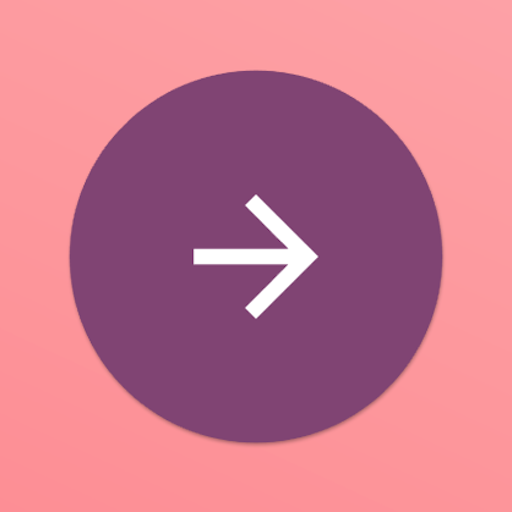
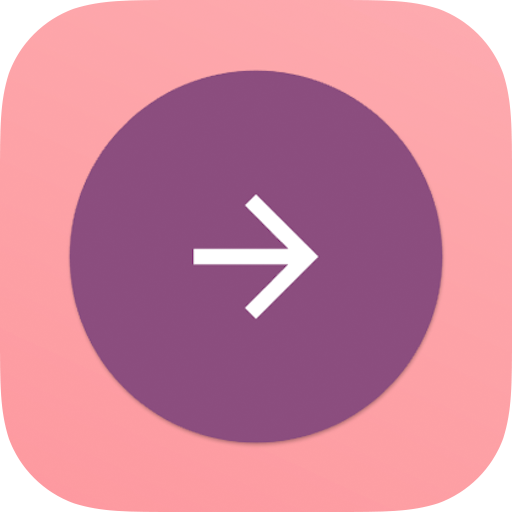
UI and content tweaks.

diff --git a/lib/widgets/resume_page/sections/projects.dart b/lib/widgets/resume_page/sections/projects.dart
@@ -15,16 +15,18 @@ class Projects extends StatelessWidget {
         crossAxisAlignment: CrossAxisAlignment.start,
         children: <Widget>[
           Headline('Projects'),
-          SizedBox(height: 8),
+          SizedBox(height: 16),
           for (ProjectDataModel project in ResumeSettings.projects)
-            Padding(
-              padding: const EdgeInsets.only(top: 16.0),
-              child: _ProjectCard(
-                title: project.projectTitle,
-                bulletPoints: project.bulletPoints,
-                assetPath: project.assetPath,
-              ),
-            )
+            Column(
+              children: <Widget>[
+                _ProjectCard(
+                  title: project.projectTitle,
+                  bulletPoints: project.bulletPoints,
+                  assetPath: project.assetPath,
+                ),
+                SizedBox(height: 16),
+              ],
+            ),
         ],
       ),
     );
@@ -45,81 +47,72 @@ class _ProjectCard extends StatelessWidget {
 
   @override
   Widget build(BuildContext context) {
-    return Card(
-      elevation: 0,
-      borderOnForeground: false,
-      color: Colors.white,
-      margin: const EdgeInsets.all(0),
-      child: Column(
-        crossAxisAlignment: CrossAxisAlignment.start,
-        children: <Widget>[
-          Container(
-            child: ListTile(
-              contentPadding: EdgeInsets.all(0),
-              leading: ClipRRect(
-                //TODO coinsider using iOS app border
-                borderRadius: BorderRadius.circular(30),
-                child: Image.asset(
-                  assetPath,
-                  width: 40,
-                  height: 40,
-                ),
-              ),
-              title: Text(
-                title,
-                style: TextStyle(
-                  color: Colors.black,
-                  fontSize: 18,
-                ),
+    return Column(
+      crossAxisAlignment: CrossAxisAlignment.start,
+      children: <Widget>[
+        Container(
+          child: ListTile(
+            contentPadding: EdgeInsets.all(0),
+            dense: true,
+            leading: Image.asset(
+              assetPath,
+              width: 40,
+              height: 40,
+            ),
+            title: Text(
+              title,
+              style: TextStyle(
+                color: Colors.black,
+                fontSize: 18,
               ),
             ),
           ),
-          Divider(
-            color: ProjectColors.lightBlack,
-            thickness: 1,
-            height: 2,
-            // indent: 8,
-            endIndent: 8,
-          ),
-          Padding(
-            padding: const EdgeInsets.symmetric(horizontal: 8.0),
-            child: Column(
-              crossAxisAlignment: CrossAxisAlignment.start,
-              children: <Widget>[
-                SizedBox(height: 4),
-                for (String bp in bulletPoints)
-                  Padding(
-                    padding: const EdgeInsets.only(top: 8),
-                    child: Row(
-                      crossAxisAlignment: CrossAxisAlignment.start,
-                      children: <Widget>[
-                        Icon(
-                          Icons.code,
-                          size: 16,
-                          color: ProjectColors.black,
-                        ),
-                        SizedBox(
-                          width: 8,
-                        ),
-                        Expanded(
-                          child: Text(
-                            bp,
-                            textAlign: TextAlign.left,
-                            style: TextStyle(
-                              color: Colors.black,
-                              fontSize: 12,
-                            ),
+        ),
+        Divider(
+          color: ProjectColors.lightBlack,
+          thickness: 1,
+          height: 2,
+          // indent: 8,
+          endIndent: 8,
+        ),
+        Padding(
+          padding: const EdgeInsets.symmetric(horizontal: 8.0),
+          child: Column(
+            crossAxisAlignment: CrossAxisAlignment.start,
+            children: <Widget>[
+              SizedBox(height: 4),
+              for (String bp in bulletPoints)
+                Padding(
+                  padding: const EdgeInsets.only(top: 8),
+                  child: Row(
+                    crossAxisAlignment: CrossAxisAlignment.start,
+                    children: <Widget>[
+                      Icon(
+                        Icons.code,
+                        size: 16,
+                        color: ProjectColors.black,
+                      ),
+                      SizedBox(
+                        width: 8,
+                      ),
+                      Expanded(
+                        child: Text(
+                          bp,
+                          textAlign: TextAlign.left,
+                          style: TextStyle(
+                            color: Colors.black,
+                            fontSize: 12,
                           ),
                         ),
-                      ],
-                    ),
+                      ),
+                    ],
                   ),
-                SizedBox(height: 4),
-              ],
-            ),
+                ),
+              SizedBox(height: 4),
+            ],
           ),
-        ],
-      ),
+        ),
+      ],
     );
   }
 }

diff --git a/lib/config/resume_settings.dart b/lib/config/resume_settings.dart
@@ -2,7 +2,7 @@ import 'package:jlaskowska/models/project_data_model.dart';
 
 class ResumeSettings {
   static const summary =
-      'Self-taught Flutter developer with six-months experience of building elegant interfaces for mobile apps. Problem solver who writes robust code and is passionate about testing and continuous integration.';
+      'Self-taught Flutter developer with six-months experience of building elegant mobile applications. Results-driven problem solver who writes robust code and is passionate about testing. Quick learner looking for new challenges in an agile team environment.';
 
   static const skills = const [
     'Dart',
@@ -23,18 +23,19 @@ class ResumeSettings {
     ProjectDataModel(
       projectTitle: 'About Me',
       bulletPoints: [
-        'Responsive personal website and app.',
-        'Developed for multiple screen sizes and orientations.',
-        'All sections, including Résumé, are written in Flutter.',
-        'By reading this you\'re intreracting with Flutter code 😃',
+        'Personal website and mobile application.',
+        'Responsive design, optimized for multiple devices, screen sizes and orientations.',
+        'Adaptive behavior per platform, e.g. mouse hand on web, inkwell button on mobile.',
+        'By reading this résumé you are interacting with Flutter code!',
       ],
-      assetPath: 'assets/images/resume/jl_app_icon.png',
+      assetPath: 'assets/images/resume/aboutme_app_icon.png',
     ),
     ProjectDataModel(
       projectTitle: 'Todo',
       bulletPoints: [
+        'App to organize and keep track of tasks.',
         'Persists data to device using Hive.',
-        'Supports both light and dark mode.',
+        'Supports both light and dark modes.',
         'Localized into three languages.',
         'Displays animated chart of completed tasks.',
       ],
@@ -44,9 +45,9 @@ class ResumeSettings {
       projectTitle: 'Signup',
       bulletPoints: [
         'App to sign-up, sign-in and sign-out.',
-        'Main functionality defined in interface.',
+        'Main functionality defined in an interface.',
         'Implementation powered by Firebase.',
-        'Unique background design achieved by custom drawn shapes & curves.',
+        'Unique background design achieved using custom drawn shapes and curves.',
       ],
       assetPath: 'assets/images/resume/signup_app_icon.png',
     )

diff --git a/lib/widgets/resume_page/resume_page_content.dart b/lib/widgets/resume_page/resume_page_content.dart
@@ -1,6 +1,5 @@
 import 'package:flutter/material.dart';
 import 'package:jlaskowska/config/project_colors.dart';
-import 'package:jlaskowska/widgets/resume_page/sections/conferences.dart';
 import 'package:jlaskowska/widgets/resume_page/sections/contact_information.dart';
 import 'package:jlaskowska/widgets/resume_page/sections/education.dart';
 import 'package:jlaskowska/widgets/resume_page/sections/experience.dart';
@@ -24,7 +23,7 @@ class ResumePageContent extends StatelessWidget {
           // constraints: BoxConstraints.expand(),
           child: SingleChildScrollView(
             child: Padding(
-              padding: const EdgeInsets.all(24.0),
+              padding: const EdgeInsets.symmetric(horizontal: 24.0, vertical: 32.0),
               child: DefaultTextStyle(
                 style: TextStyle(
                   fontFamily: 'Rubik',
@@ -49,9 +48,9 @@ class _PageStructure extends StatelessWidget {
       mainAxisAlignment: MainAxisAlignment.start,
       children: <Widget>[
         ContactInformation(),
-        SizedBox(height: 16),
+        SizedBox(height: 24),
         Summary(),
-        SizedBox(height: 16),
+        SizedBox(height: 24),
         Row(
           crossAxisAlignment: CrossAxisAlignment.start,
           children: <Widget>[
@@ -64,11 +63,11 @@ class _PageStructure extends StatelessWidget {
                 crossAxisAlignment: CrossAxisAlignment.start,
                 children: <Widget>[
                   Skills(),
-                  SizedBox(height: 16),
+                  SizedBox(height: 24),
                   Experience(),
-                  SizedBox(height: 8),
+                  SizedBox(height: 16),
                   Education(),
-                  SizedBox(height: 8),
+                  SizedBox(height: 16),
                   Languages(),
                   SizedBox(height: 24),
                   Hobbies(),

diff --git a/lib/widgets/resume_page/sections/skills.dart b/lib/widgets/resume_page/sections/skills.dart
@@ -59,7 +59,7 @@ class _SkillChip extends StatelessWidget {
       borderRadius: BorderRadius.circular(16.0),
       child: Container(
         color: backgroundColor,
-        padding: const EdgeInsets.all(8),
+        padding: const EdgeInsets.symmetric(horizontal: 8.0, vertical: 4.0),
         child: Row(
           mainAxisSize: MainAxisSize.min,
           children: <Widget>[
@@ -67,14 +67,14 @@ class _SkillChip extends StatelessWidget {
               child: Icon(
                 Icons.check,
                 color: backgroundColor,
-                size: 18,
+                size: 14,
               ),
               decoration: BoxDecoration(
                 shape: BoxShape.circle,
                 color: foregroundColor,
               ),
             ),
-            SizedBox(width: 8),
+            SizedBox(width: 4),
             Center(
               child: Text(
                 text,

diff --git a/lib/widgets/resume_page/sections/common/content_tile.dart b/lib/widgets/resume_page/sections/common/content_tile.dart
@@ -5,13 +5,14 @@ class ContentTile extends StatelessWidget {
   final String title;
   final String subtitle;
   final IconData icon;
-
+  final double iconSize;
   final Color iconColor;
 
   const ContentTile({
     @required this.title,
     @required this.subtitle,
     @required this.icon,
+    this.iconSize = 38,
     this.iconColor = ProjectColors.lightBlack,
     Key key,
   }) : super(key: key);
@@ -20,10 +21,11 @@ class ContentTile extends StatelessWidget {
   Widget build(BuildContext context) {
     return ListTile(
       contentPadding: const EdgeInsets.all(0),
+      dense: true,
       leading: Icon(
         icon,
         color: iconColor,
-        size: 40,
+        size: iconSize,
       ),
       title: Text(
         title,

diff --git a/lib/widgets/resume_page/sections/contact_information.dart b/lib/widgets/resume_page/sections/contact_information.dart
@@ -12,7 +12,7 @@ class ContactInformation extends StatelessWidget {
     return Container(
       height: 90,
       child: Row(
-        mainAxisAlignment: MainAxisAlignment.spaceEvenly,
+        mainAxisAlignment: MainAxisAlignment.spaceBetween,
         children: <Widget>[
           Avatar(size: 90),
           SizedBox(width: 8),

diff --git a/lib/widgets/resume_page/sections/experience.dart b/lib/widgets/resume_page/sections/experience.dart
@@ -23,6 +23,7 @@ class Experience extends StatelessWidget {
               ),
               ContentTile(
                 icon: Icons.build,
+                iconSize: 34,
                 title: 'Technical Support, AVM',
                 subtitle: 'June 2015 - July 2017, Berlin',
               ),
